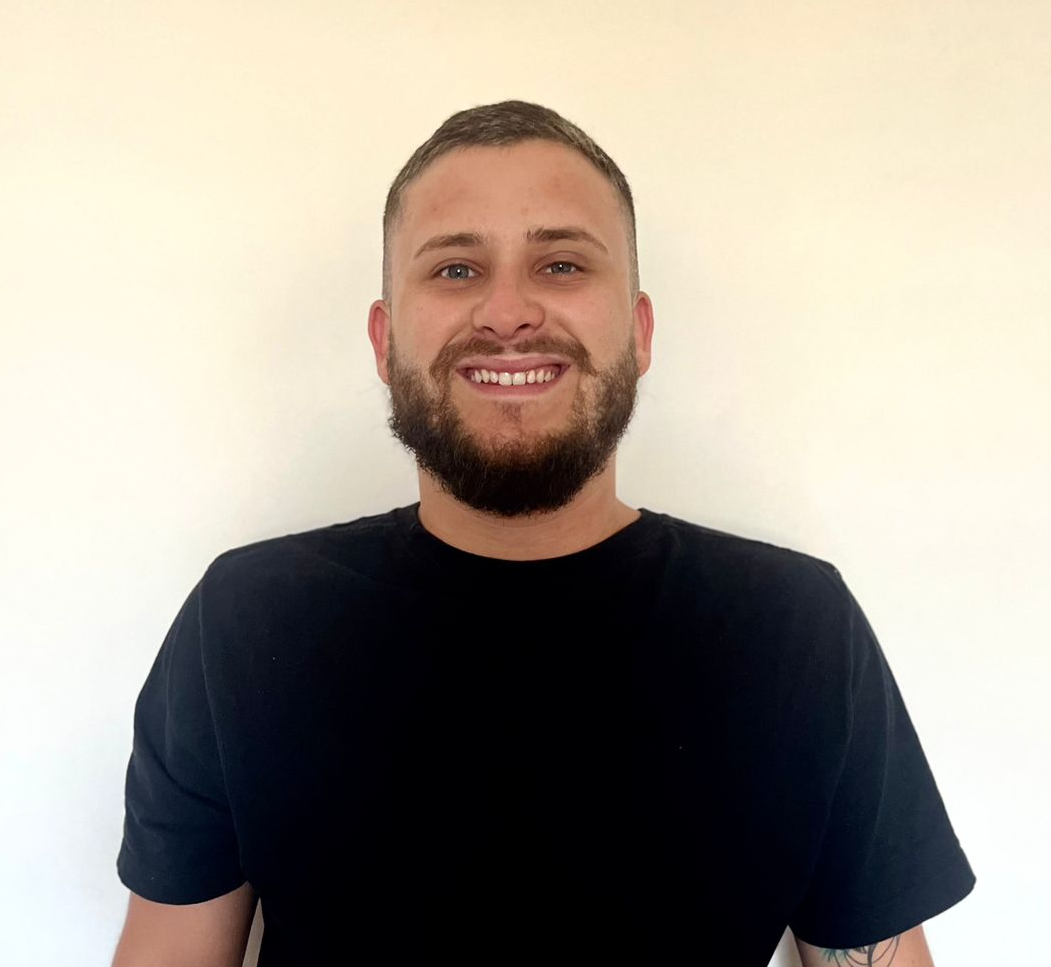
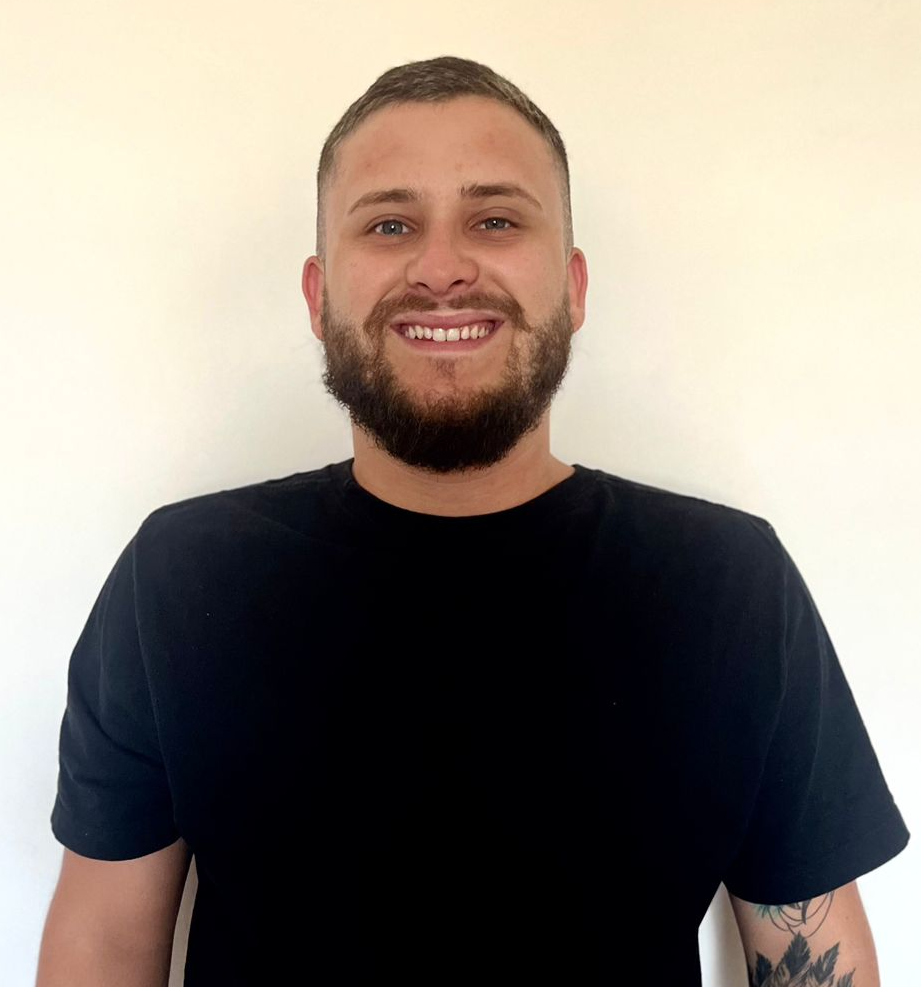
Alterado foto João, Sirlon e Yean

Changed region(s): [[0.0304, 0.031, 1.0, 1.0]]

diff --git a/src/utils/mocks.ts b/src/utils/mocks.ts
@@ -28,7 +28,7 @@ export const integrantes = [
   },
   {
     nome: "João Ropke",
-    imagem: "/joao3.png",
+    imagem: "/joao4.png",
     funcao: "Java | JavaScript | Python",
     sobre:
       "Recentemente conclui minha formação técnica em Ciência de Dados, e através de projetos em equipes e individuais, adquiri experiência nas linguagens Java, JavaScript, Python, HTML e CSS, além de Trabalhar com MySql. Atualmente estou em processo de evolução, para futuramente me tornar um Desenvolvedor Full Stack.",
@@ -37,7 +37,7 @@ export const integrantes = [
   },
   {
     nome: "Sirlon Brehm",
-    imagem: "/sirlon3.png",
+    imagem: "/sirlon5.png",
     funcao: "HTML | CSS | JavaScript | Java",
     sobre:
       "Lorem Ipsum is simply dummy text of the printing and typesetting industry. Lorem Ipsum has been the industry's standard dummy text ever since the 1500s, when an unknown printer took a galley of type and scrambled it to make a type specimen book.",
@@ -46,7 +46,7 @@ export const integrantes = [
   },
   {
     nome: "Yean Jy Chen",
-    imagem: "/yean3.png",
+    imagem: "/yean4.png",
     funcao: "HTML | CSS | JavaScript | Java",
     sobre:
       "Lorem Ipsum is simply dummy text of the printing and typesetting industry. Lorem Ipsum has been the industry's standard dummy text ever since the 1500s, when an unknown printer took a galley of type and scrambled it to make a type specimen book.",
